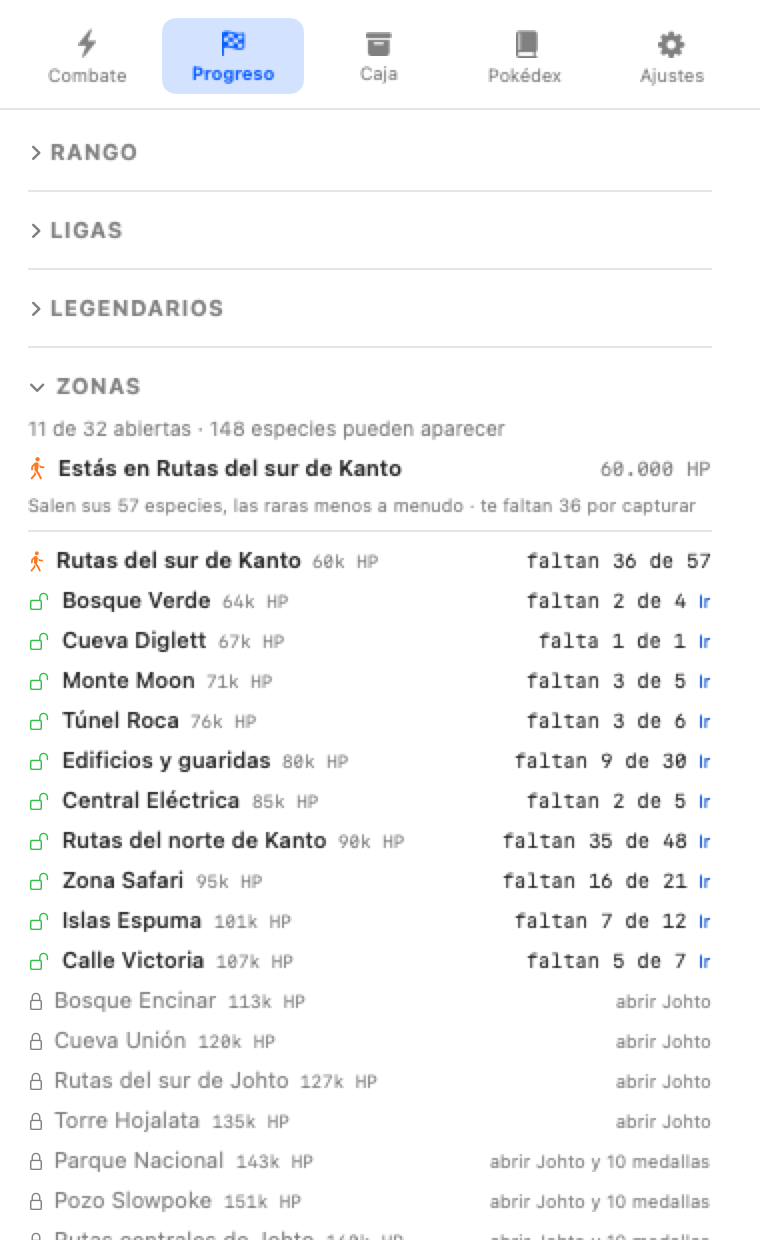
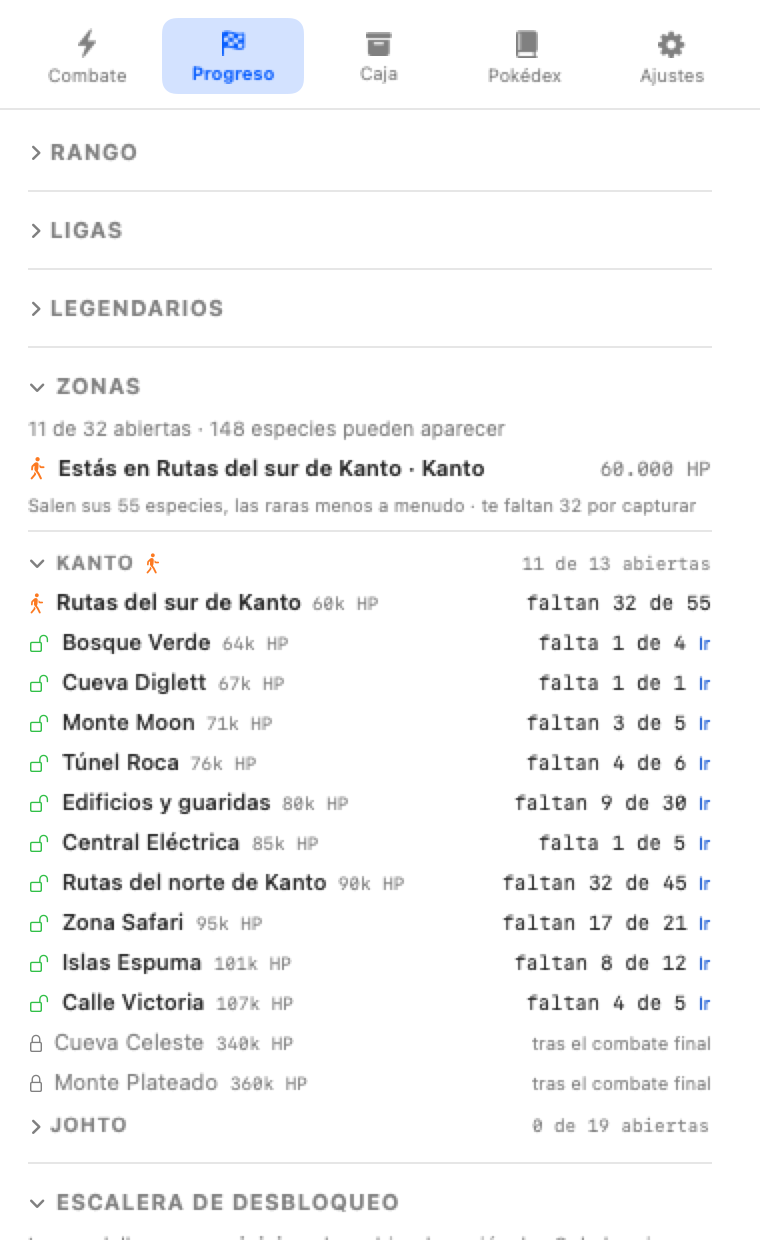
feat(zonas): la lista, agrupada por región

diff --git a/Sources/PokeTokenBar/Views/ZonesView.swift b/Sources/PokeTokenBar/Views/ZonesView.swift
@@ -20,7 +20,7 @@ struct ZonesView: View {
                 Image(systemName: "figure.walk")
                     .font(.system(size: 10))
                     .foregroundStyle(.orange)
-                Text("Estás en \(here.name)")
+                Text("Estás en \(here.name) · \(here.region.capitalized)")
                     .font(.system(size: 11, weight: .semibold))
                 Spacer(minLength: 4)
                 Text("\(Fmt.tokens(store.zoneHP(here))) HP")
@@ -35,12 +35,62 @@ struct ZonesView: View {
 
             Divider().padding(.vertical, 1)
 
-            // En orden de desbloqueo: es el orden en que aparecen, el que dice
-            // cuánto pega cada una, y por tanto el que se quiere leer.
-            ForEach(store.zoneCatalog.inUnlockOrder) { zone in
-                row(zone, open: access.opens(zone), here: zone.id == here.id)
+            // Por región y, dentro, en orden de desbloqueo: el que dice cuánto
+            // pega cada una. Solo la región donde estás sale desplegada.
+            ForEach(regions, id: \.self) { region in
+                let zones = store.zoneCatalog.inUnlockOrder.filter { $0.region == region }
+                let collapsed = isCollapsed(region, here: here)
+                regionHeader(region, zones: zones, access: access, here: here, collapsed: collapsed)
+                if !collapsed {
+                    ForEach(zones) { zone in
+                        row(zone, open: access.opens(zone), here: zone.id == here.id)
+                    }
+                }
             }
         }
+    }
+
+    /// En el orden en que se llega a ellas.
+    private var regions: [String] {
+        store.zoneCatalog.inUnlockOrder.reduce(into: [String]()) { acc, zone in
+            if !acc.contains(zone.region) { acc.append(zone.region) }
+        }
+    }
+
+    // La clave guarda el cambio respecto al estado por defecto, que depende de
+    // dónde estés: así al viajar se despliega sola la región nueva.
+    private func sectionID(_ region: String) -> String { "zonas:\(region)" }
+
+    private func isCollapsed(_ region: String, here: Zone) -> Bool {
+        (region != here.region) != store.isCollapsed(sectionID(region))
+    }
+
+    private func regionHeader(_ region: String, zones: [Zone], access: ZoneAccess, here: Zone, collapsed: Bool) -> some View {
+        let open = zones.filter { access.opens($0) }.count
+        return Button {
+            store.toggleSection(sectionID(region))
+        } label: {
+            HStack(spacing: 4) {
+                Image(systemName: collapsed ? "chevron.right" : "chevron.down")
+                    .font(.system(size: 8, weight: .bold))
+                Text(region.uppercased())
+                    .font(.system(size: 10, weight: .bold))
+                    .tracking(0.5)
+                if region == here.region {
+                    Image(systemName: "figure.walk")
+                        .font(.system(size: 9))
+                        .foregroundStyle(.orange)
+                }
+                Spacer(minLength: 4)
+                Text("\(open) de \(zones.count) abiertas")
+                    .font(.system(size: 9, design: .monospaced))
+            }
+            .contentShape(Rectangle())
+        }
+        .buttonStyle(.plain)
+        .foregroundStyle(.secondary)
+        .padding(.top, 2)
+        .help(collapsed ? "Desplegar" : "Plegar")
     }
 
     /// Con una sola especie las plurales cantan: "Salen sus 1 especies".
